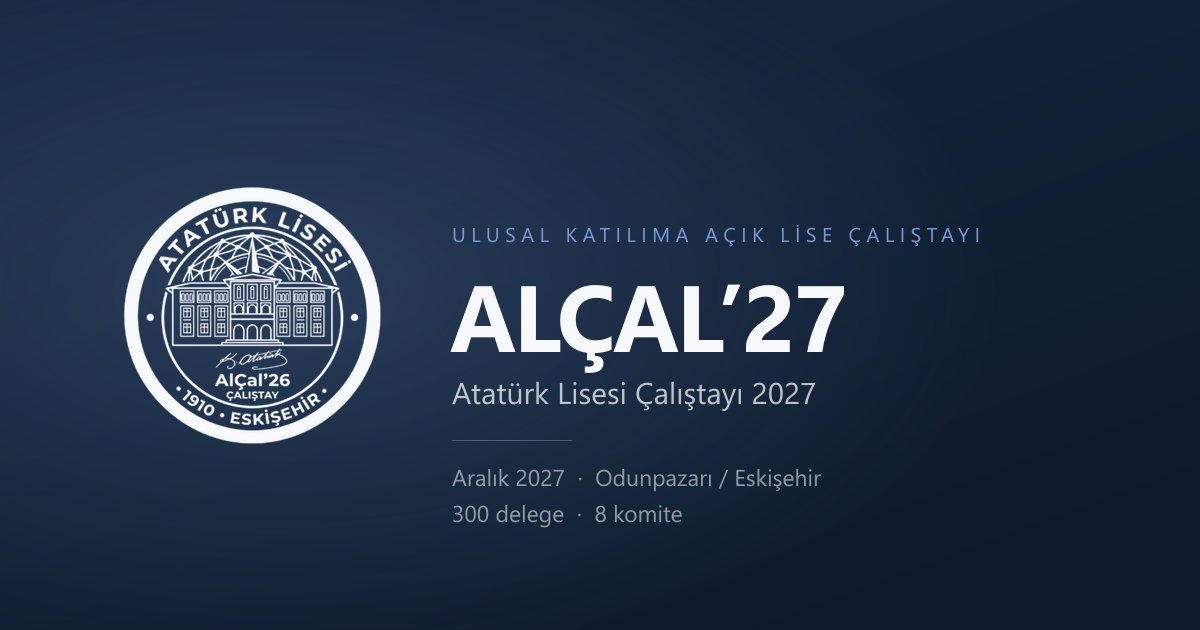
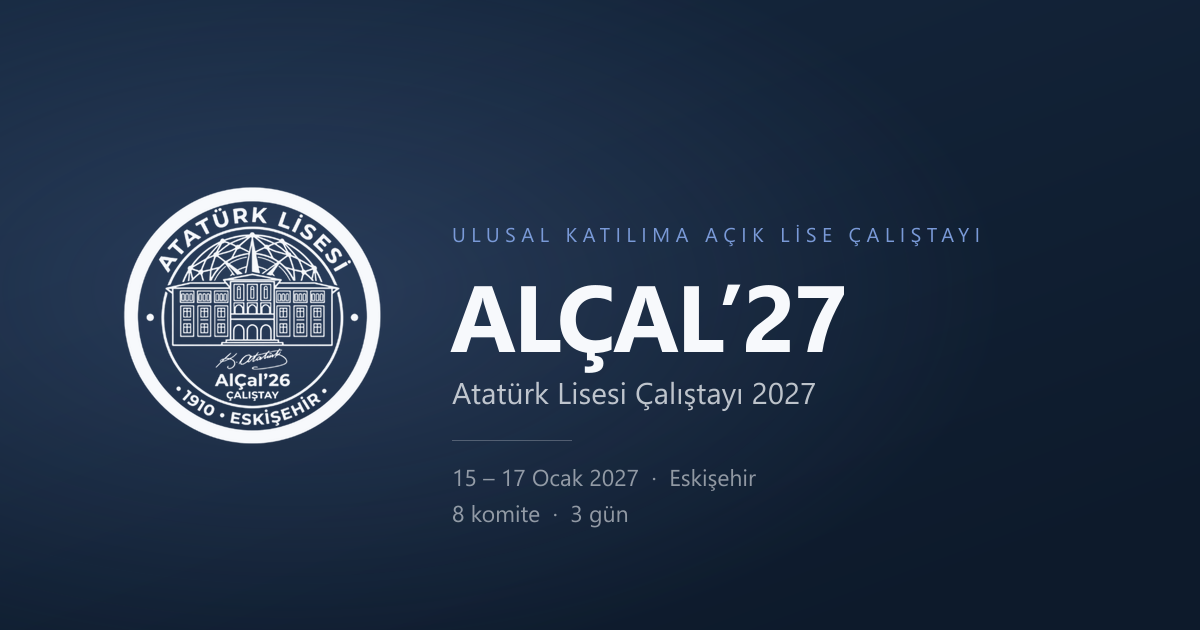
Başvuru bölümüne etkinlik adresini ekle, tarihi Ocak 2027'ye taşı
Başvuranlar etkinliğin yerini formdan önce görebilsin diye adres bilgisi
ve harita bağlantısı eklendi; hero metninden net delege sayısı kaldırıldı
ve tüm tarih metinleri 15 – 17 Ocak 2027 olarak güncellendi.

🤖 Generated with Codebuff

Changed region(s): [[0.37, 0.7238, 0.6783, 0.8444]]

diff --git a/components/site/apply.tsx b/components/site/apply.tsx
@@ -1,7 +1,7 @@
 "use client";
 
 import { useState } from "react";
-import { Send } from "lucide-react";
+import { ArrowUpRight, MapPin, Send } from "lucide-react";
 import { toast } from "sonner";
 import { Reveal } from "@/components/fx/reveal";
 import { SectionHeading } from "./section-heading";
@@ -143,7 +143,37 @@ export function Apply() {
           lead="Çalıştaya katılmak için formu doldurun. Başvurular organizasyon komitesi tarafından değerlendirilecek ve sonuçlar e-posta ile bildirilecektir."
         />
 
-        <Reveal className="mt-12">
+        {/* Etkinlik yeri — başvurudan önce görünür kalsın diye formun dışında. */}
+        <Reveal className="mt-10">
+          <div className="card-sheen flex flex-col gap-4 rounded-lg border border-border bg-card p-5 sm:flex-row sm:items-center sm:justify-between">
+            <div className="flex items-start gap-3">
+              <MapPin className="mt-0.5 size-4 shrink-0 text-accent" aria-hidden />
+              <div>
+                <p className="text-[11px] font-medium uppercase tracking-[0.14em] text-muted-foreground">
+                  Etkinlik yeri
+                </p>
+                <p className="mt-1.5 text-[14px] font-medium text-foreground">
+                  {event.venue.name}
+                </p>
+                <p className="mt-0.5 text-[12.5px] leading-relaxed text-muted-foreground">
+                  {event.venue.address}
+                </p>
+              </div>
+            </div>
+
+            <a
+              href={event.venue.mapsUrl}
+              target="_blank"
+              rel="noopener noreferrer"
+              className="inline-flex shrink-0 items-center gap-2 rounded-md border border-border px-4 py-2 text-[13px] text-foreground/85 transition-colors hover:border-accent/40 hover:text-foreground"
+            >
+              Haritada aç
+              <ArrowUpRight className="size-3.5" aria-hidden />
+            </a>
+          </div>
+        </Reveal>
+
+        <Reveal className="mt-8">
           {loading ? (
             // Ayarlar okunana kadar formu göstermeyip yer tutucu bırakıyoruz;
             // aksi hâlde kapalı bir form bir an için açık görünürdü.

diff --git a/components/site/hero.tsx b/components/site/hero.tsx
@@ -75,10 +75,10 @@ export function Hero() {
           {...rise(0.28)}
           className="mt-6 max-w-xl text-pretty text-[15px] leading-relaxed text-muted-foreground sm:text-base"
         >
-          Eskişehir Atatürk Lisesi tarafından düzenlenen çalıştaya 8 komitede{" "}
-          {settings.delegates} delege katılacak. Etkinlik {settings.dateLabel}
-          &rsquo;de, Türkiye&rsquo;nin farklı illerinden gelen lise
-          öğrencilerine açık olarak gerçekleştirilecek.
+          Eskişehir Atatürk Lisesi tarafından düzenlenen çalıştay,
+          Türkiye&rsquo;nin farklı illerinden gelen lise öğrencilerini 8 komitede
+          bir araya getiriyor. Etkinlik {settings.dateLabel} tarihinde
+          gerçekleştirilecek.
         </motion.p>
 
         <motion.div

diff --git a/constants/event.ts b/constants/event.ts
@@ -11,12 +11,12 @@ export const event = {
   language: "Türkçe",
 
   /**
-   * NOT: Brifing dosyasında yalnızca "Aralık 2027" belirtiliyor; gün bilgisi yok.
-   * Kesin tarih netleştiğinde geri sayımın doğru çalışması için burayı güncelleyin.
+   * Etkinlik 15 – 17 Ocak 2027. Geri sayım ilk güne (15 Ocak) ayarlı;
+   * açılış saati netleşince `startsAt` güncellenmeli.
    */
-  startsAt: "2027-12-18T16:00:00+03:00",
-  dateLabel: "Aralık 2027",
-  dateLabelLong: "18 – 20 Aralık 2027",
+  startsAt: "2027-01-15T09:00:00+03:00",
+  dateLabel: "Ocak 2027",
+  dateLabelLong: "15 – 17 Ocak 2027",
   isDatePreliminary: true,
 
   venue: {

diff --git a/app/layout.tsx b/app/layout.tsx
@@ -14,7 +14,7 @@ const inter = Inter({
 });
 
 const description =
-  "ALÇAL'27 — Eskişehir Atatürk Lisesi'nin düzenlediği, ulusal katılıma açık lise düzeyi çalıştay konferansı. 300 delege, 8 komite, Aralık 2027.";
+  "ALÇAL'27 — Eskişehir Atatürk Lisesi'nin düzenlediği, ulusal katılıma açık lise düzeyi çalıştay konferansı. 8 komite, Ocak 2027.";
 
 export const metadata: Metadata = {
   metadataBase: new URL("https://alcal26.com"),

diff --git a/components/admin/settings-panel.tsx b/components/admin/settings-panel.tsx
@@ -144,7 +144,7 @@ export function SettingsPanel() {
               type="text"
               value={draft.dateLabel}
               onChange={(e) => update("dateLabel", e.target.value)}
-              placeholder="Aralık 2027"
+              placeholder="Ocak 2027"
               className={inputClass}
             />
           </Field>
